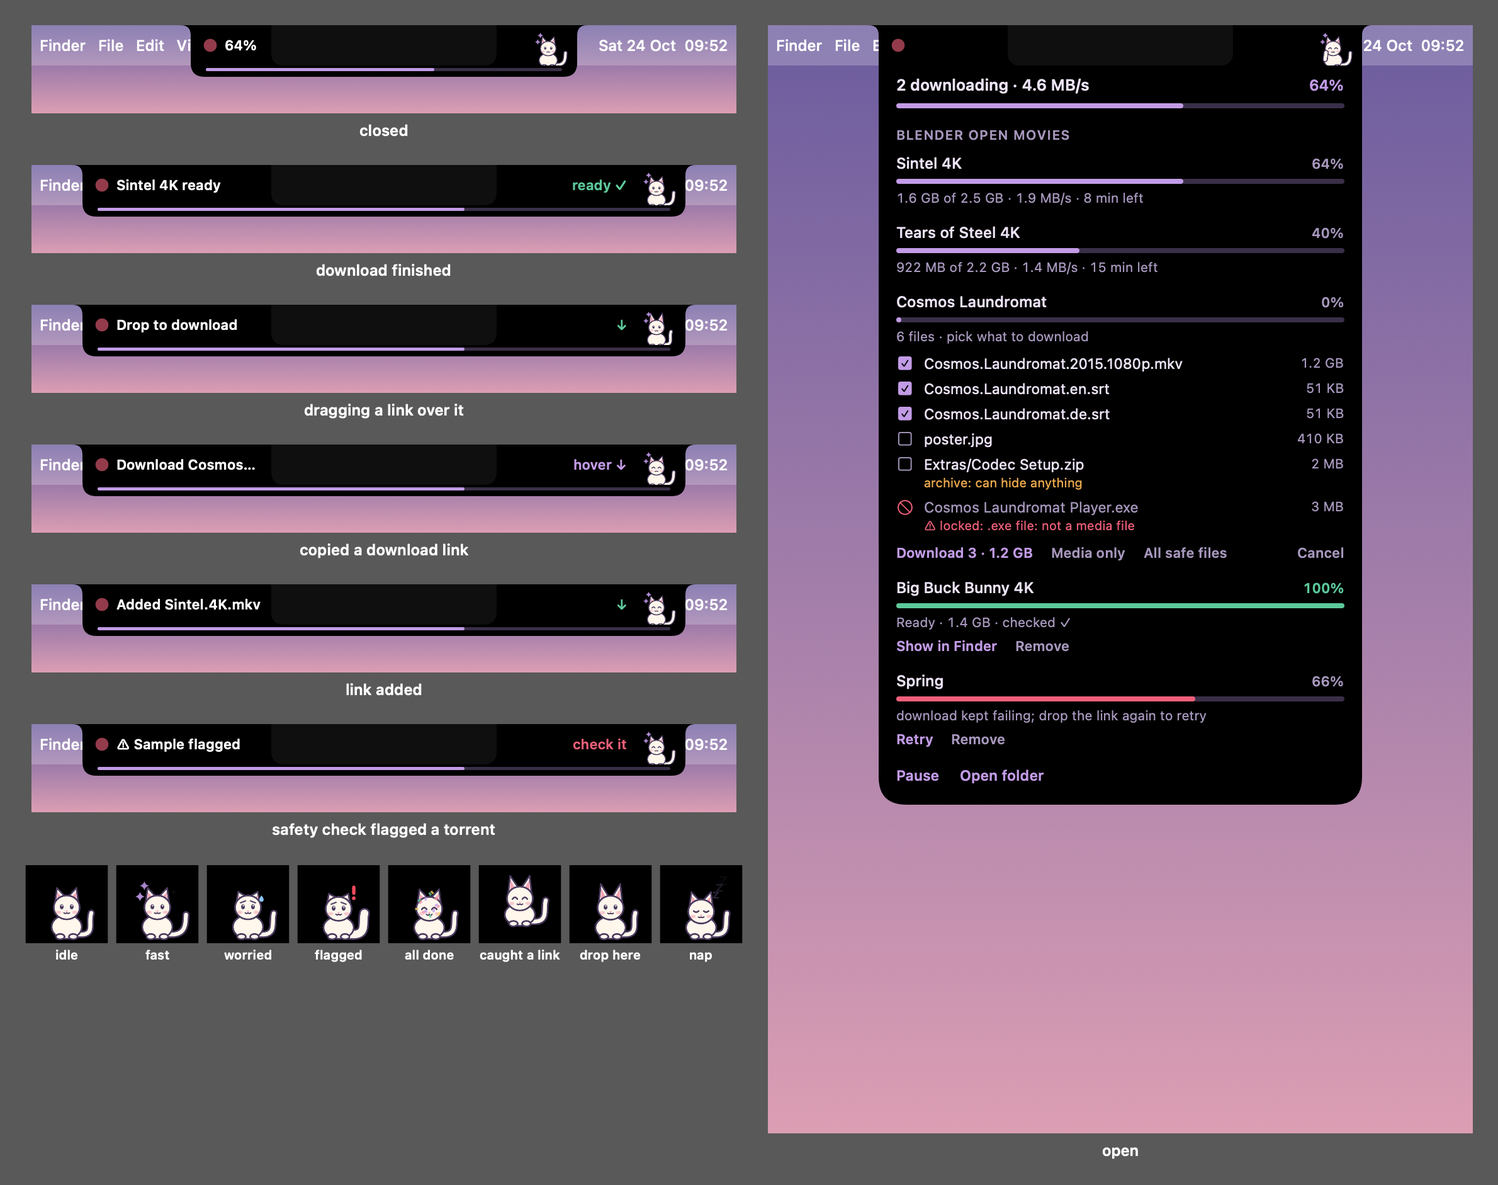
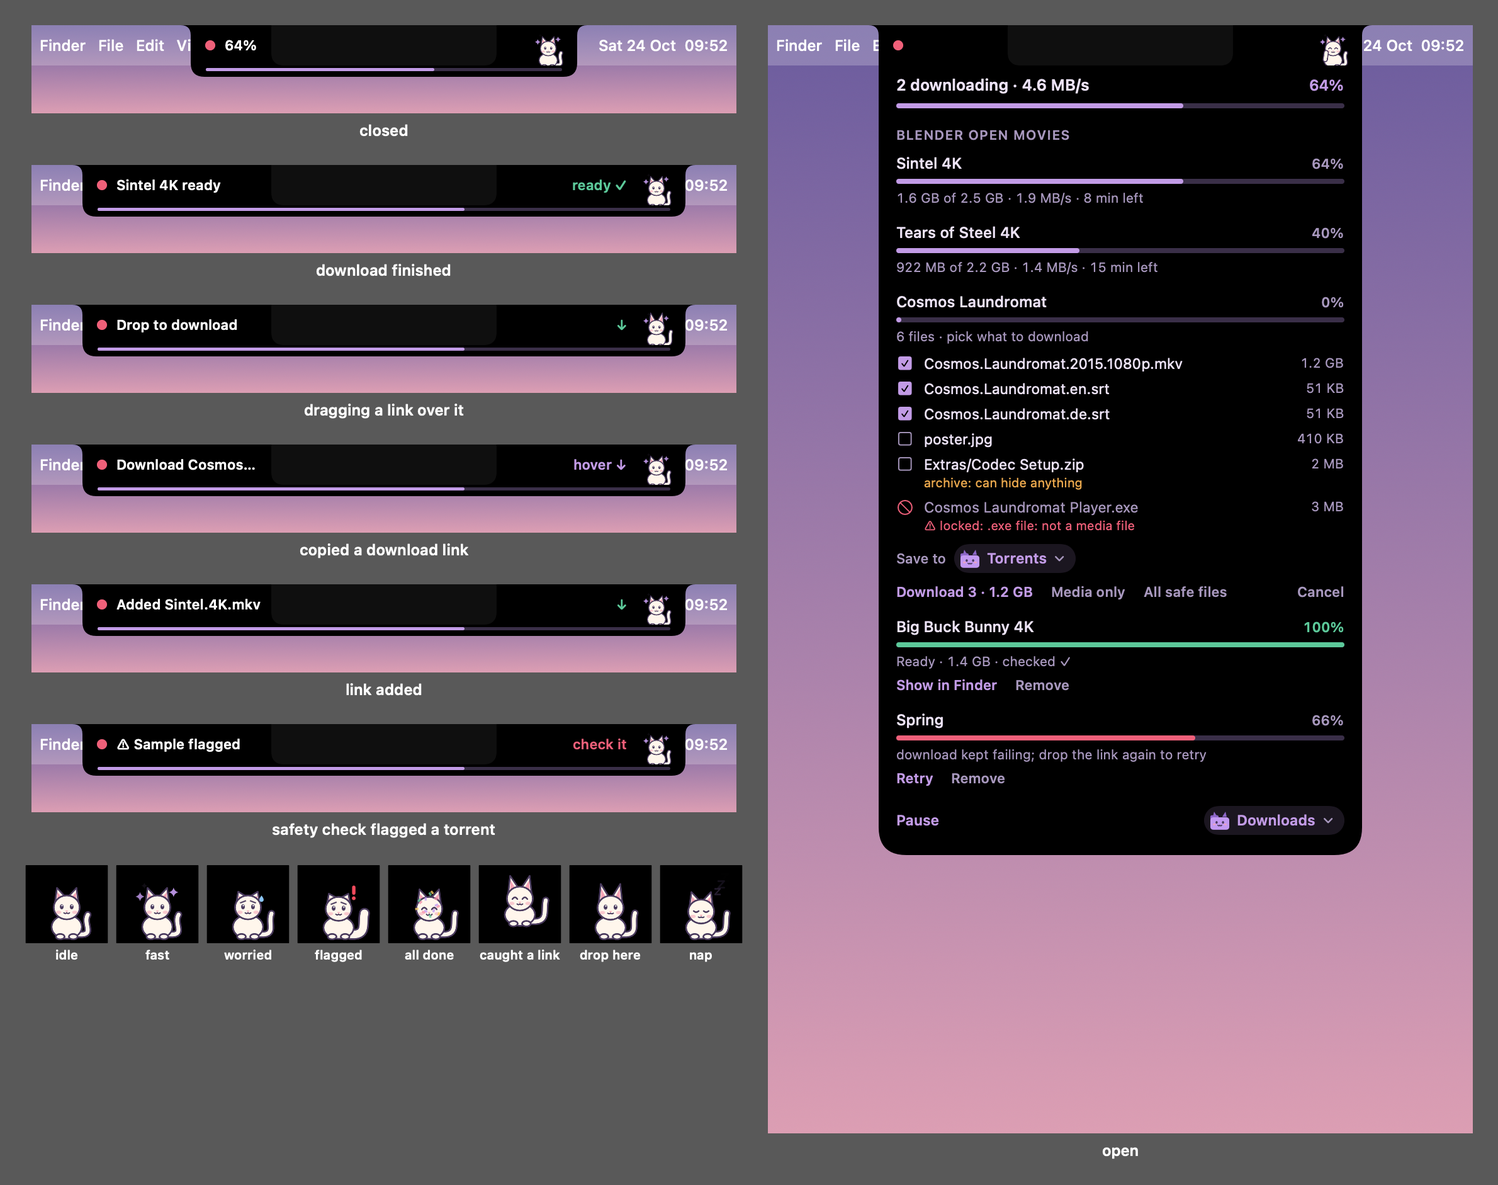
Choose where downloads go, with a cat-folder chip
- Cat-folder chip in the open notch/bar: recent folders, "Choose another
  folder…" (standard folder picker), Show in Finder
- The torrent file picker gets its own "Save to" chip for one torrent
- The app writes settings.json; the engine reads the folder for every new
  download (web: the folder, torrents: its Torrents subfolder, or the
  folder picked for that torrent)
- The engine never falls back silently: an unplugged drive or a folder it
  can't write to fails with a plain message, and it doesn't create fake
  paths under /Volumes
- --folder-icon renders the icon large for checking

Tests: self-test 35/35 (settings, recents, names, unplugged drive,
per-torrent folder), offline engine test of chosen/unplugged folders,
notch and corner stress tests pass.

Changed region(s): [[0.5597, 0.4315, 0.9328, 0.7396], [0.0933, 0.7705, 0.1244, 0.8013], [0.0311, 0.7705, 0.0622, 0.8013]]

diff --git a/app/Folder.swift b/app/Folder.swift
@@ -1,0 +1,191 @@
+// Choosing where downloads go: a little cat-folder chip in the open notch/bar. Click it for recent folders
+// or "Choose another folder…". The choice is saved for the engine in settings.json (read for every new
+// download); a torrent can also be sent somewhere else from its file picker.
+import SwiftUI
+import AppKit
+
+extension Model {
+    static let defaultFolder = FileManager.default.homeDirectoryForCurrentUser.appendingPathComponent("Downloads").path
+
+    var downloadFolder: String {
+        get { UserDefaults.standard.string(forKey: "downloadFolder") ?? Model.defaultFolder }
+        set {
+            UserDefaults.standard.set(newValue, forKey: "downloadFolder")
+            var recent = recentFolders.filter { $0 != newValue }
+            recent.insert(newValue, at: 0)
+            UserDefaults.standard.set(Array(recent.prefix(5)), forKey: "recentFolders")
+            writeSettings()
+            objectWillChange.send()
+        }
+    }
+
+    var recentFolders: [String] { UserDefaults.standard.stringArray(forKey: "recentFolders") ?? [Model.defaultFolder] }
+
+    /// Tell the engine where to save (it reads this for every new download).
+    func writeSettings() {
+        guard let data = try? JSONSerialization.data(withJSONObject: ["downloadFolder": downloadFolder]) else { return }
+        try? data.write(to: base.appendingPathComponent("settings.json"), options: .atomic)
+    }
+
+    func setFolder(_ path: String) {
+        downloadFolder = path
+        caughtAt = Date()
+        announce("Saving to \(Folders.name(path).prefix(20))")
+    }
+
+    /// Where a torrent will go: chosen just for it, or the Torrents folder inside the download folder.
+    func torrentFolder(for j: Job) -> String {
+        torrentFolders[j.id] ?? (downloadFolder as NSString).appendingPathComponent("Torrents")
+    }
+}
+
+enum Folders {
+    /// "Downloads", or "Backup Plus › Movies" for a folder on another drive.
+    static func name(_ path: String) -> String {
+        let parts = (path as NSString).standardizingPath.split(separator: "/").map(String.init)
+        let last = FileManager.default.displayName(atPath: path)
+        if parts.count >= 2, parts[0] == "Volumes" {
+            return parts.count == 2 ? parts[1] : "\(parts[1]) › \(last)"
+        }
+        return last
+    }
+
+    static func isUnplugged(_ path: String) -> Bool {
+        let parts = (path as NSString).standardizingPath.split(separator: "/").map(String.init)
+        guard parts.count >= 2, parts[0] == "Volumes" else { return false }
+        var isDir: ObjCBool = false
+        return !FileManager.default.fileExists(atPath: "/Volumes/\(parts[1])", isDirectory: &isDir)
+    }
+
+    /// The standard macOS folder picker (non-modal, so the notch keeps animating).
+    @MainActor
+    static func choose(startingAt path: String, done: @escaping (String) -> Void) {
+        let panel = NSOpenPanel()
+        panel.canChooseDirectories = true
+        panel.canChooseFiles = false
+        panel.canCreateDirectories = true
+        panel.allowsMultipleSelection = false
+        panel.prompt = "Save here"
+        panel.message = "Where should Purrload put your downloads?"
+        panel.directoryURL = URL(fileURLWithPath: path)
+        NSApp.activate(ignoringOtherApps: true)        // Purrload has no Dock icon; bring the picker to the front
+        panel.begin { response in
+            if response == .OK, let url = panel.url { done(url.path) }
+        }
+    }
+}
+
+/// The little menu behind the chip.
+@MainActor
+final class FolderMenu: NSObject {
+    static let shared = FolderMenu()
+    private var pick: ((String) -> Void)?
+    private var current = ""
+
+    func show(current: String, recent: [String], pick: @escaping (String) -> Void) {
+        self.pick = pick
+        self.current = current
+        let menu = NSMenu()
+        let title = NSMenuItem(title: "Save downloads to", action: nil, keyEquivalent: "")
+        title.isEnabled = false
+        menu.addItem(title)
+        for path in ([current] + recent.filter { $0 != current }).prefix(5) {
+            let item = NSMenuItem(title: Folders.name(path) + (Folders.isUnplugged(path) ? "  (not connected)" : ""),
+                                  action: #selector(choose(_:)), keyEquivalent: "")
+            item.target = self
+            item.representedObject = path
+            item.state = path == current ? .on : .off
+            item.image = NSImage(systemSymbolName: path.hasPrefix("/Volumes/") ? "externaldrive" : "folder", accessibilityDescription: nil)
+            item.toolTip = path
+            menu.addItem(item)
+        }
+        menu.addItem(.separator())
+        let other = NSMenuItem(title: "Choose another folder…", action: #selector(chooseOther), keyEquivalent: "")
+        other.target = self
+        menu.addItem(other)
+        let reveal = NSMenuItem(title: "Show in Finder", action: #selector(showInFinder), keyEquivalent: "")
+        reveal.target = self
+        menu.addItem(reveal)
+        menu.popUp(positioning: nil, at: NSEvent.mouseLocation, in: nil)
+    }
+
+    @objc private func choose(_ item: NSMenuItem) {
+        if let p = item.representedObject as? String { pick?(p) }
+    }
+    @objc private func chooseOther() {
+        let pick = self.pick
+        Folders.choose(startingAt: current) { path in pick?(path) }
+    }
+    @objc private func showInFinder() {
+        try? FileManager.default.createDirectory(atPath: current, withIntermediateDirectories: true)
+        NSWorkspace.shared.open(URL(fileURLWithPath: current))
+    }
+}
+
+/// A lilac folder with cat ears, eyes and a little "w" mouth. Shapes only.
+struct CatFolderIcon: View {
+    var size: CGFloat = 18
+    var body: some View {
+        Canvas { c, s in
+            let k = s.width / 18
+            func p(_ x: CGFloat, _ y: CGFloat) -> CGPoint { CGPoint(x: x * k, y: y * k) }
+            let lilac = Color(red: 0.76, green: 0.6, blue: 0.95), deep = Color(red: 0.55, green: 0.4, blue: 0.78)
+            let line = Color(red: 0.29, green: 0.23, blue: 0.37)
+            for (a, b, tip) in [(p(3.2, 6), p(7, 6), p(4.2, 1.6)), (p(11, 6), p(14.8, 6), p(13.8, 1.6))] {   // ears
+                var ear = Path(); ear.move(to: a); ear.addLine(to: tip); ear.addLine(to: b); ear.closeSubpath()
+                c.fill(ear, with: .color(deep))
+            }
+            var tab = Path()                                                          // folder tab + back
+            tab.addRoundedRect(in: CGRect(origin: p(1, 4.6), size: CGSize(width: 7 * k, height: 4 * k)), cornerSize: CGSize(width: 1.5 * k, height: 1.5 * k))
+            c.fill(tab, with: .color(deep))
+            let front = Path(roundedRect: CGRect(origin: p(1, 6.4), size: CGSize(width: 16 * k, height: 10.4 * k)), cornerRadius: 2.4 * k)
+            c.fill(front, with: .color(lilac))
+            for x: CGFloat in [6.3, 11.7] {                                           // eyes
+                c.fill(Path(ellipseIn: CGRect(origin: p(x - 0.9, 9.6), size: CGSize(width: 1.8 * k, height: 2.2 * k))), with: .color(line))
+            }
+            var w = Path()                                                            // the little "w" mouth
+            w.move(to: p(7.4, 13)); w.addQuadCurve(to: p(9, 13), control: p(8.2, 14.2))
+            w.addQuadCurve(to: p(10.6, 13), control: p(9.8, 14.2))
+            c.stroke(w, with: .color(line), style: StrokeStyle(lineWidth: 0.9 * k, lineCap: .round))
+            for x: CGFloat in [4.4, 13.6] {                                           // blush
+                c.fill(Path(ellipseIn: CGRect(origin: p(x - 1.2, 11.6), size: CGSize(width: 2.4 * k, height: 1.4 * k))),
+                       with: .color(Color(red: 0.96, green: 0.64, blue: 0.71).opacity(0.8)))
+            }
+        }
+        .frame(width: size, height: size)
+    }
+}
+
+/// "🐱📁 Downloads ▾" — click to pick where downloads go. With `job`, it picks a folder just for that torrent.
+struct FolderChip: View {
+    @ObservedObject var model: Model
+    var job: Job? = nil
+    var prefix = ""
+
+    var path: String { job.map { model.torrentFolder(for: $0) } ?? model.downloadFolder }
+
+    var body: some View {
+        Button {
+            let id = job?.id
+            FolderMenu.shared.show(current: path, recent: model.recentFolders) { chosen in
+                if let id { model.torrentFolders[id] = chosen; model.caughtAt = Date() } else { model.setFolder(chosen) }
+            }
+        } label: {
+            HStack(spacing: 5) {
+                CatFolderIcon(size: 17)
+                Text(prefix + Folders.name(path)).lineLimit(1).truncationMode(.middle)
+                if Folders.isUnplugged(path) {
+                    Text("not connected").foregroundStyle(Color.gem)
+                }
+                Image(systemName: "chevron.down").font(.system(size: 8, weight: .bold)).foregroundStyle(Color.soft)
+            }
+            .padding(.leading, 4).padding(.trailing, 8).padding(.vertical, 3)
+            .background(Capsule().fill(Color.lilac.opacity(0.14)))
+            .contentShape(Capsule())
+        }
+        .buttonStyle(.plain)
+        .font(.system(size: 11.5, weight: .semibold))
+        .foregroundStyle(Color.lilac)
+        .help(path)
+    }
+}

diff --git a/app/PurrloadApp.swift b/app/PurrloadApp.swift
@@ -93,6 +93,7 @@ final class Model: ObservableObject {
         set { UserDefaults.standard.set(newValue, forKey: "watchClipboard"); objectWillChange.send() }
     }
     @Published var picks: [String: Set<Int>] = [:]   // torrent file choices, per job
+    @Published var torrentFolders: [String: String] = [:]   // a folder chosen just for one torrent (Folder.swift)
     var rowFrames: [String: CGRect] = [:]          // where each row is in the window (for the fiery pit)
     var toScreen: ((CGRect) -> CGRect)?            // window -> screen coordinates, set by the app delegate
     var darkRows = false                           // notch rows are drawn on black
@@ -225,7 +226,9 @@ final class Model: ObservableObject {
     }
     func startTorrent(_ j: Job) {
         let s = selection(for: j).sorted()
-        guard !s.isEmpty, send(["select": j.id, "files": s]) else { return }
+        var request: [String: Any] = ["select": j.id, "files": s]
+        if let folder = torrentFolders[j.id] { request["folder"] = folder }
+        guard !s.isEmpty, send(request) else { return }
         caughtAt = Date()
         announce("Downloading \(s.count) file\(s.count == 1 ? "" : "s")")
     }
@@ -444,8 +447,8 @@ struct BarView: View {
 
                 HStack(spacing: 16) {
                     Button(model.status?.paused == true ? "Resume" : "Pause") { model.togglePause() }
-                    Button("Open folder") { model.openFolder() }
                     Spacer()
+                    FolderChip(model: model)
                 }
                 .buttonStyle(.plain)
                 .font(.system(size: 11.5, weight: .semibold))
@@ -506,6 +509,7 @@ final class AppDelegate: NSObject, NSApplicationDelegate {
 
     func applicationDidFinishLaunching(_ note: Notification) {
         if !CommandLine.arguments.contains("--stress") { Notifier.shared.start(logTo: model.base) }
+        model.writeSettings()      // the engine reads the download folder from here
         if let i = CommandLine.arguments.firstIndex(of: "--mode"), i + 1 < CommandLine.arguments.count {
             forcedMode = CommandLine.arguments[i + 1]
         }
@@ -987,11 +991,35 @@ func selftest(to path: String) {
         check("Download sends the picked files", msgs.contains { ($0["select"] as? String) == "t1" && ($0["files"] as? [Int]) == [1, 2, 3] })
         check("Retry and Remove send their requests", msgs.contains { $0["retry"] as? String == "w1" } && msgs.contains { $0["remove"] as? String == "w1" })
     }
+    // download folder
+    let savedFolder = UserDefaults.standard.string(forKey: "downloadFolder"), savedRecent = UserDefaults.standard.stringArray(forKey: "recentFolders")
+    m.setFolder("/Volumes/Backup Plus/Movies")
+    let settings = (try? JSONSerialization.jsonObject(with: Data(contentsOf: tmp.appendingPathComponent("settings.json")))) as? [String: String]
+    check("choosing a folder tells the engine", settings?["downloadFolder"] == "/Volumes/Backup Plus/Movies")
+    check("the chosen folder heads the recent list", m.recentFolders.first == "/Volumes/Backup Plus/Movies")
+    for i in 0..<7 { m.downloadFolder = "/tmp/f\(i)" }
+    check("recent folders are capped at 5, newest first", m.recentFolders.count == 5 && m.recentFolders.first == "/tmp/f6")
+    m.downloadFolder = "/tmp/f2"
+    check("picking a recent folder again doesn't duplicate it", m.recentFolders.filter { $0 == "/tmp/f2" }.count == 1)
+    check("folder names read nicely", Folders.name("/Volumes/Backup Plus/Movies") == "Backup Plus › Movies"
+          && Folders.name("/Volumes/Backup Plus") == "Backup Plus")
+    check("an unplugged drive is noticed", Folders.isUnplugged("/Volumes/Definitely Not Plugged In/x") && !Folders.isUnplugged(NSHomeDirectory()))
+    if let tj = st?.jobs.first {
+        check("torrents go to a Torrents folder by default", m.torrentFolder(for: tj) == "/tmp/f2/Torrents")
+        m.torrentFolders[tj.id] = "/tmp/elsewhere"
+        let before2 = Set((try? FileManager.default.contentsOfDirectory(atPath: inbox.path)) ?? [])
+        m.startTorrent(tj)
+        let new = Set((try? FileManager.default.contentsOfDirectory(atPath: inbox.path)) ?? []).subtracting(before2)
+        let req = new.compactMap { try? JSONSerialization.jsonObject(with: Data(contentsOf: inbox.appendingPathComponent($0))) as? [String: Any] }.first
+        check("a folder picked for one torrent is sent with it", req?["folder"] as? String == "/tmp/elsewhere")
+    }
+    if let savedFolder { UserDefaults.standard.set(savedFolder, forKey: "downloadFolder") } else { UserDefaults.standard.removeObject(forKey: "downloadFolder") }
+    if let savedRecent { UserDefaults.standard.set(savedRecent, forKey: "recentFolders") } else { UserDefaults.standard.removeObject(forKey: "recentFolders") }
     m.offer = "magnet:?xt=urn:btih:abc"; m.offerAt = Date()
     check("offer widens the strip", m.wide)
     m.acceptOffer()
     check("accepting the offer queues it and clears it", m.offer == nil &&
-          (((try? FileManager.default.contentsOfDirectory(atPath: inbox.path)) ?? []).count == 5))   // link + select + retry + remove + offer
+          (((try? FileManager.default.contentsOfDirectory(atPath: inbox.path)) ?? []).count == 6))   // link + select + retry + remove + torrent-with-folder + offer
     try? FileManager.default.removeItem(at: tmp)
     lines += ["", "TOTAL \(pass)/\(total)"]
     try? lines.joined(separator: "\n").write(toFile: path, atomically: true, encoding: .utf8)
@@ -1003,6 +1031,17 @@ struct PurrloadApp {
         // Purrload --snapshot out.png : render the expanded bar (light + dark) to an image for checking the design
         useDemoData = CommandLine.arguments.contains("--demo")
         let args = CommandLine.arguments
+        if let i = args.firstIndex(of: "--folder-icon"), i + 1 < args.count {    // the cat-folder, big, for checking
+            MainActor.assumeIsolated {
+                let v = HStack(spacing: 30) { CatFolderIcon(size: 160); CatFolderIcon(size: 17).scaleEffect(4).frame(width: 80, height: 80) }
+                    .padding(30).background(Color.black)
+                let r = ImageRenderer(content: v); r.scale = 2
+                if let t = r.nsImage?.tiffRepresentation, let png = NSBitmapImageRep(data: t)?.representation(using: .png, properties: [:]) {
+                    try? png.write(to: URL(fileURLWithPath: args[i + 1]))
+                }
+            }
+            return
+        }
         if let i = args.firstIndex(of: "--pit-storyboard"), i + 1 < args.count {
             MainActor.assumeIsolated { pitStoryboard(to: args[i + 1]) }
             return

diff --git a/app/Notch.swift b/app/Notch.swift
@@ -160,8 +160,8 @@ struct NotchView: View {
             ForEach(model.jobs) { Row(model: model, job: $0, title: model.rowTitle($0), live: measuring == nil && kittyAt == nil) }
             HStack(spacing: 16) {
                 Button(model.status?.paused == true ? "Resume" : "Pause") { model.togglePause() }
-                Button("Open folder") { model.openFolder() }
                 Spacer()
+                FolderChip(model: model)
             }
             .buttonStyle(.plain)
             .font(.system(size: 11.5, weight: .semibold))

diff --git a/app/Picker.swift b/app/Picker.swift
@@ -20,6 +20,10 @@ struct FilePicker: View {
                 list
             }
 
+            HStack(spacing: 6) {
+                Text("Save to").font(.system(size: 11, weight: .medium)).foregroundStyle(Color.soft)
+                FolderChip(model: model, job: job)
+            }
             HStack(spacing: 14) {
                 Button("Download \(picked.count) · \(gb(model.pickedBytes(job)))") { model.startTorrent(job) }
                     .foregroundStyle(picked.isEmpty ? Color.soft : Color.lilac)

diff --git a/engine/purrload-engine.py b/engine/purrload-engine.py
@@ -29,6 +29,7 @@ CURL_HANG_SECS = 60     # curl alive but no bytes this long -> restart it
 PAUSE = f"{BASE}/PAUSE" # touch to pause all curl downloads, delete to resume
 INBOX = f"{BASE}/inbox" # the app drops {"url": ...} files here to start a download
 DOWNLOADS = os.environ.get("PURRLOAD_DOWNLOADS", f"{HOME}/Downloads")
+SETTINGS = f"{BASE}/settings.json"   # written by the app: {"downloadFolder": "/path"}
 INSPECT = os.path.join(os.path.dirname(os.path.abspath(__file__)), "inspect.py")
 ARIA2 = None if os.environ.get("PURRLOAD_NO_ARIA2") else (shutil.which("aria2c") or
         next((p for p in ("/opt/homebrew/bin/aria2c", "/usr/local/bin/aria2c") if os.path.exists(p)), None))
@@ -136,6 +137,27 @@ class Job:
         return (s1 - s0) / (t1 - t0) if t1 > t0 else 0
 
 
+def download_folder():
+    """Where new downloads go: the folder chosen in the app, read fresh for every download."""
+    try:
+        chosen = json.load(open(SETTINGS)).get("downloadFolder")
+    except (OSError, ValueError):
+        chosen = None
+    return os.path.expanduser(chosen) if chosen else DOWNLOADS
+
+def folder_problem(path):
+    """Why we can't save to `path` (in plain words), or None if it's fine. Never silently saves somewhere else."""
+    parts = os.path.abspath(path).split("/")
+    if len(parts) > 2 and parts[1] == "Volumes" and not os.path.ismount(f"/Volumes/{parts[2]}"):
+        return f"\u201c{parts[2]}\u201d isn't connected: plug it in or choose another folder"
+    try:
+        os.makedirs(path, exist_ok=True)
+    except OSError:
+        return f"couldn't create the folder {os.path.basename(path.rstrip('/')) or path}"
+    if not os.access(path, os.W_OK):
+        return f"can't save to {os.path.basename(path.rstrip('/')) or path} (no permission)"
+    return None
+
 def quarantine(path):
     """Mark a file as downloaded so Gatekeeper checks it on first open (curl/aria2 don't do this)."""
     subprocess.run(["xattr", "-w", "com.apple.quarantine", f"0081;{int(time.time()):08x};Purrload;", path],
@@ -223,7 +245,8 @@ class DirectJob:
         self.url = url
         # a magnet, a .torrent file on disk, or a web link to a .torrent file (query strings allowed)
         self.torrent = url.startswith("magnet:") or urlparse(url).path.lower().endswith(".torrent")
-        self.folder = os.path.join(DOWNLOADS, "Torrents") if self.torrent else DOWNLOADS
+        base = download_folder()
+        self.folder = os.path.join(base, "Torrents") if self.torrent else base
         self.name = self.title = "Magnet link" if url.startswith("magnet:") else (
             os.path.basename(urlparse(url).path) or "download")
         self.state = "starting"          # starting -> metadata (magnets) -> choosing (torrents) -> downloading -> verified | corrupt | danger
@@ -263,7 +286,8 @@ class DirectJob:
     # ----- worker thread -----
     def work(self):
         try:
-            os.makedirs(self.folder, exist_ok=True)
+            if not self.torrent and (problem := folder_problem(self.folder)):   # torrents check once a folder is chosen
+                return self.fail(problem)
             self.work_torrent() if self.torrent else self.work_http()
         except Exception as e:
             self.fail(f"error: {e}")
@@ -362,6 +386,8 @@ class DirectJob:
         picked = sorted(i for i in (self.selection or []) if i in allowed)   # never download a blocked file
         if not picked:
             return self.fail("nothing was selected")
+        if problem := folder_problem(self.folder):
+            return self.fail(problem)
         sel = ",".join(map(str, picked))
         self.total = sum(f["size"] for f in self.files if f["index"] in picked)
         self.files = None
@@ -604,6 +630,8 @@ class Engine:
                 j = self.jobs.get(msg["select"])
                 if isinstance(j, DirectJob) and j.state == "choosing":
                     j.selection = [int(i) for i in msg.get("files", [])]
+                    if msg.get("folder"):               # chosen just for this torrent
+                        j.folder = os.path.expanduser(str(msg["folder"]))
                     j.chosen.set()
             elif "retry" in msg:
                 j = self.jobs.get(msg["retry"])

diff --git a/README.md b/README.md
@@ -22,6 +22,11 @@ Purrload keeps your Safari downloads alive. It stops your Mac from sleeping mid-
 - After downloading, torrents are checked again by content and get the quarantine mark.
 - Finished downloads get **Show in Finder**, failed ones get **Retry**, and both can be cleared with **Remove**.
 
+**Choose where downloads go**
+- Click the little cat-folder in the open notch to pick a recent folder or **Choose another folder…**. Web downloads go straight into it; torrents go into a `Torrents` folder inside it.
+- A torrent can be sent somewhere else from its file picker (**Save to**), without changing the default.
+- If the folder is on a drive that isn't plugged in, Purrload says so instead of saving somewhere else.
+
 **The floor is lava**
 - Click **Remove** and the row falls out of the notch into a lava floor that rises across the bottom of the screen, and burns.
 - Click **Retry** and it falls in, burns, then rises back out with a halo and wings while the download starts again.
